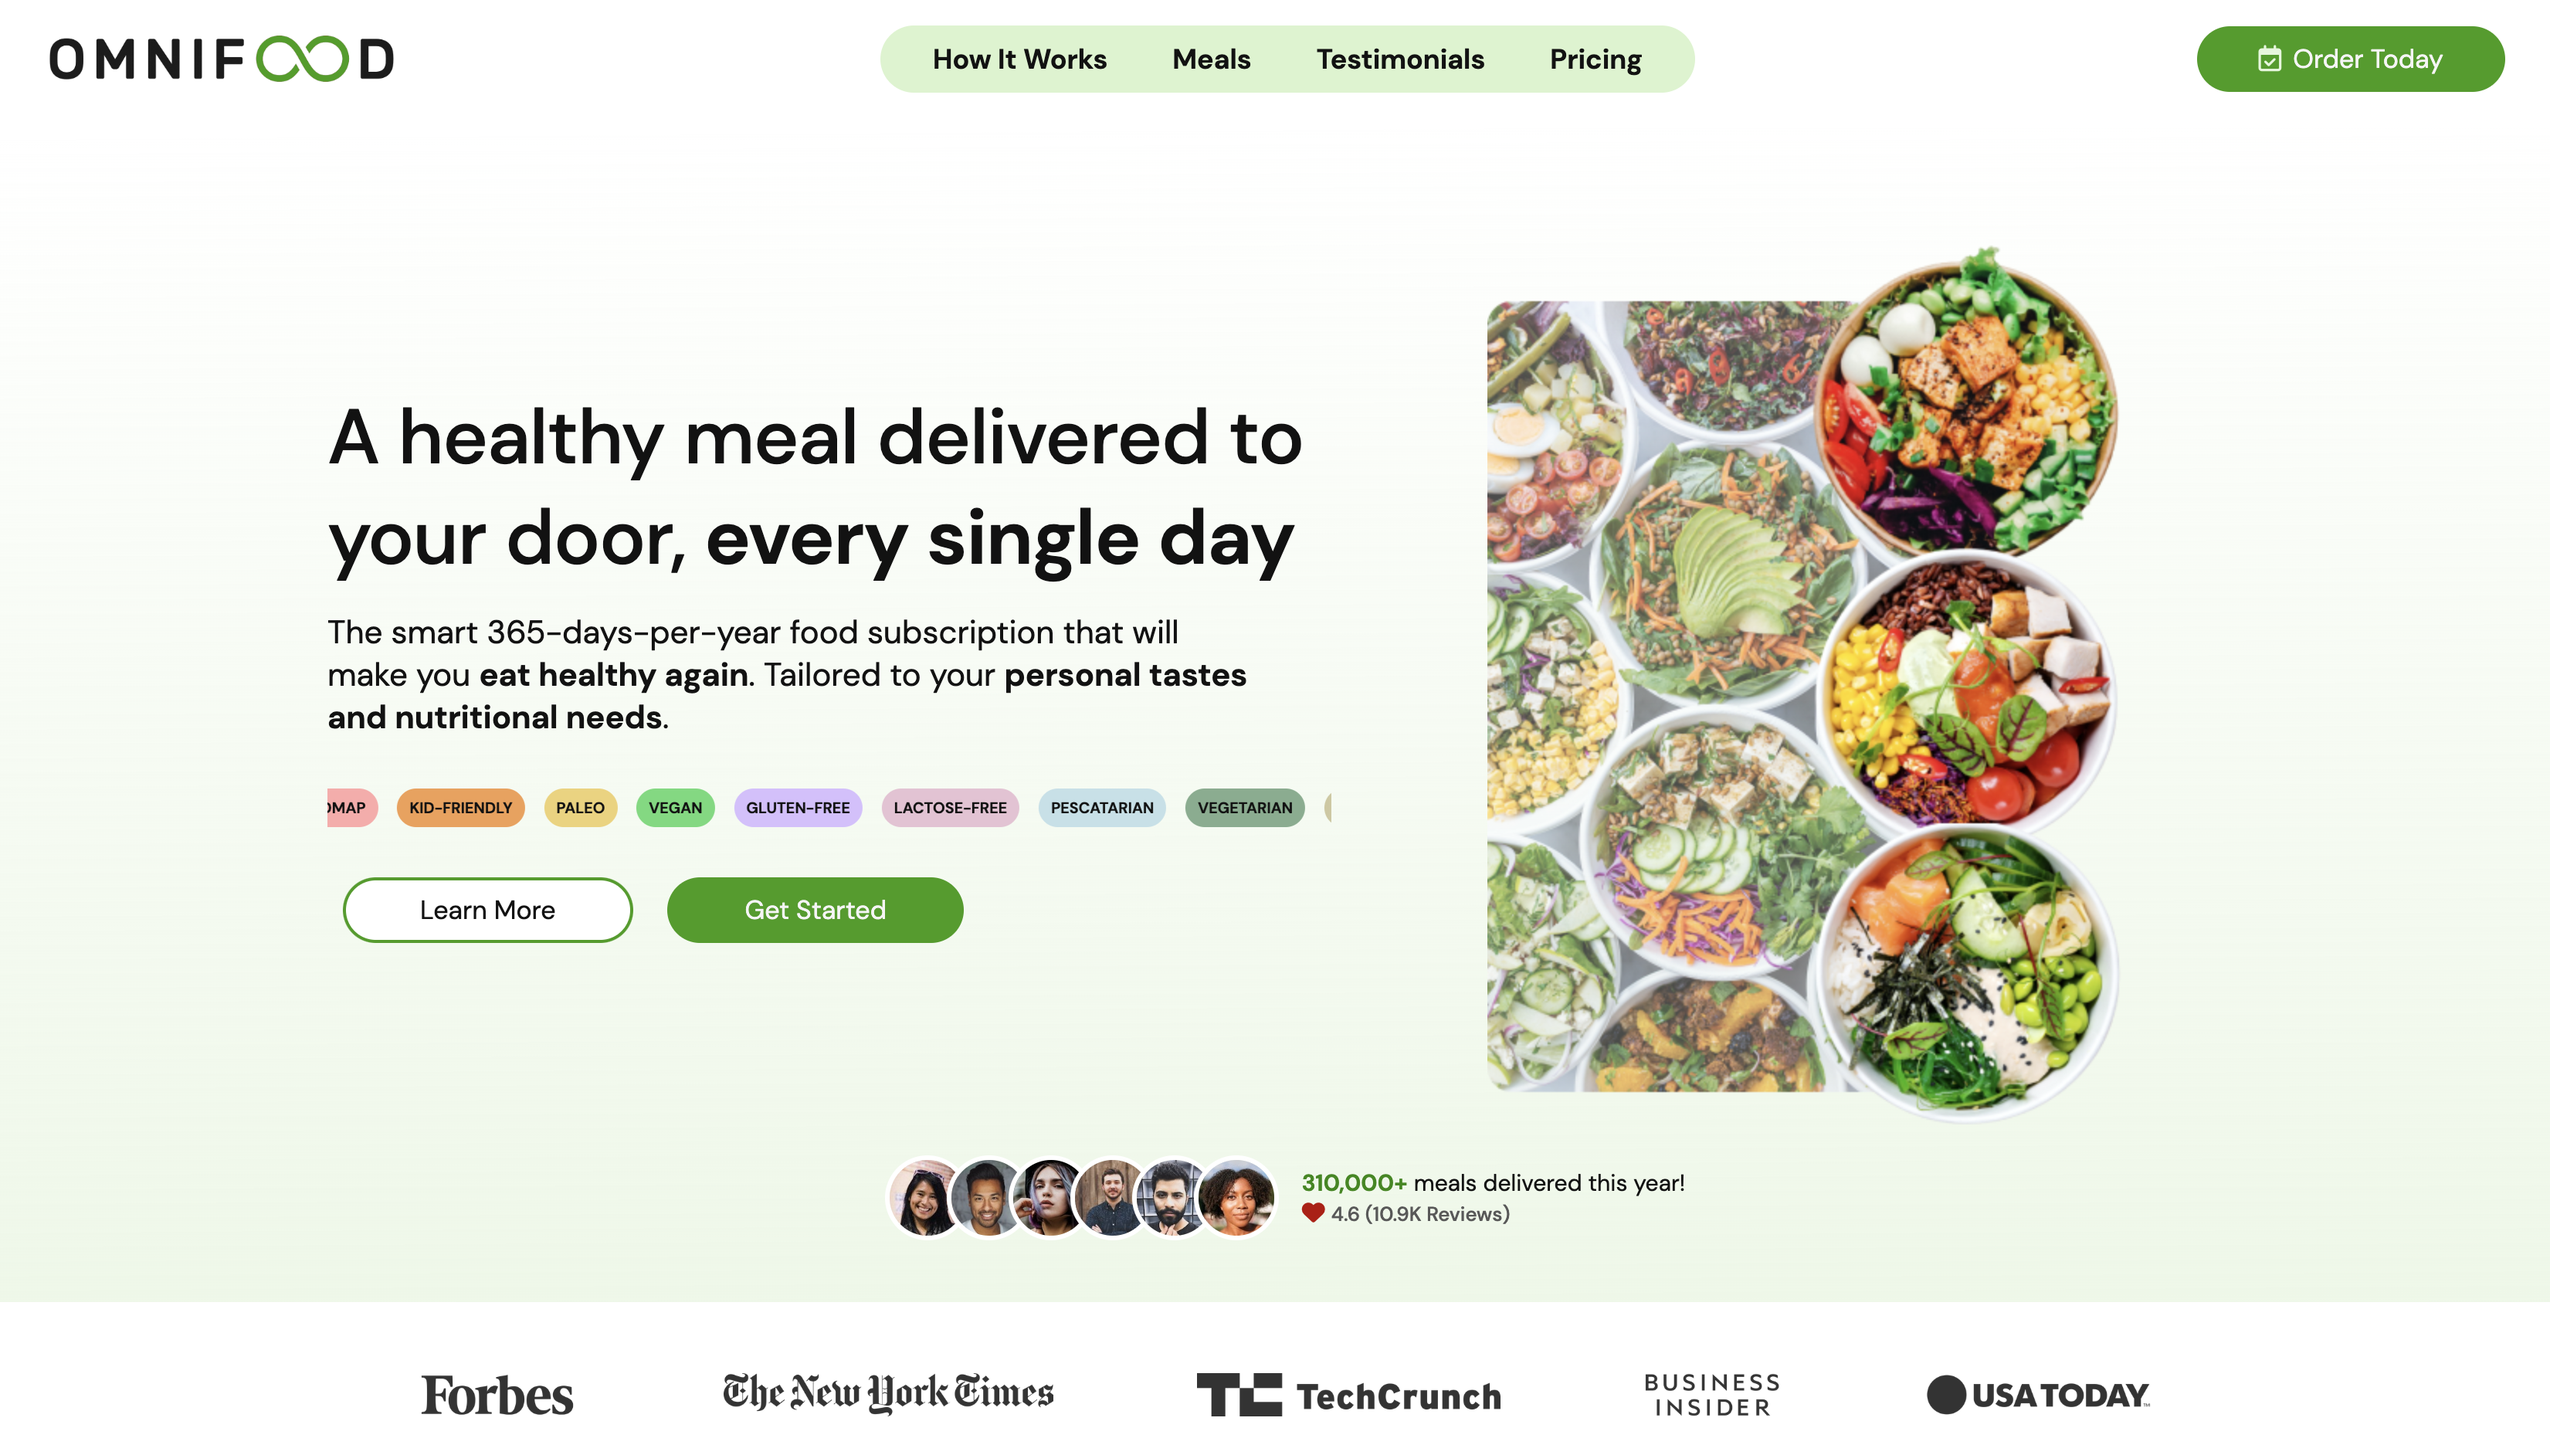
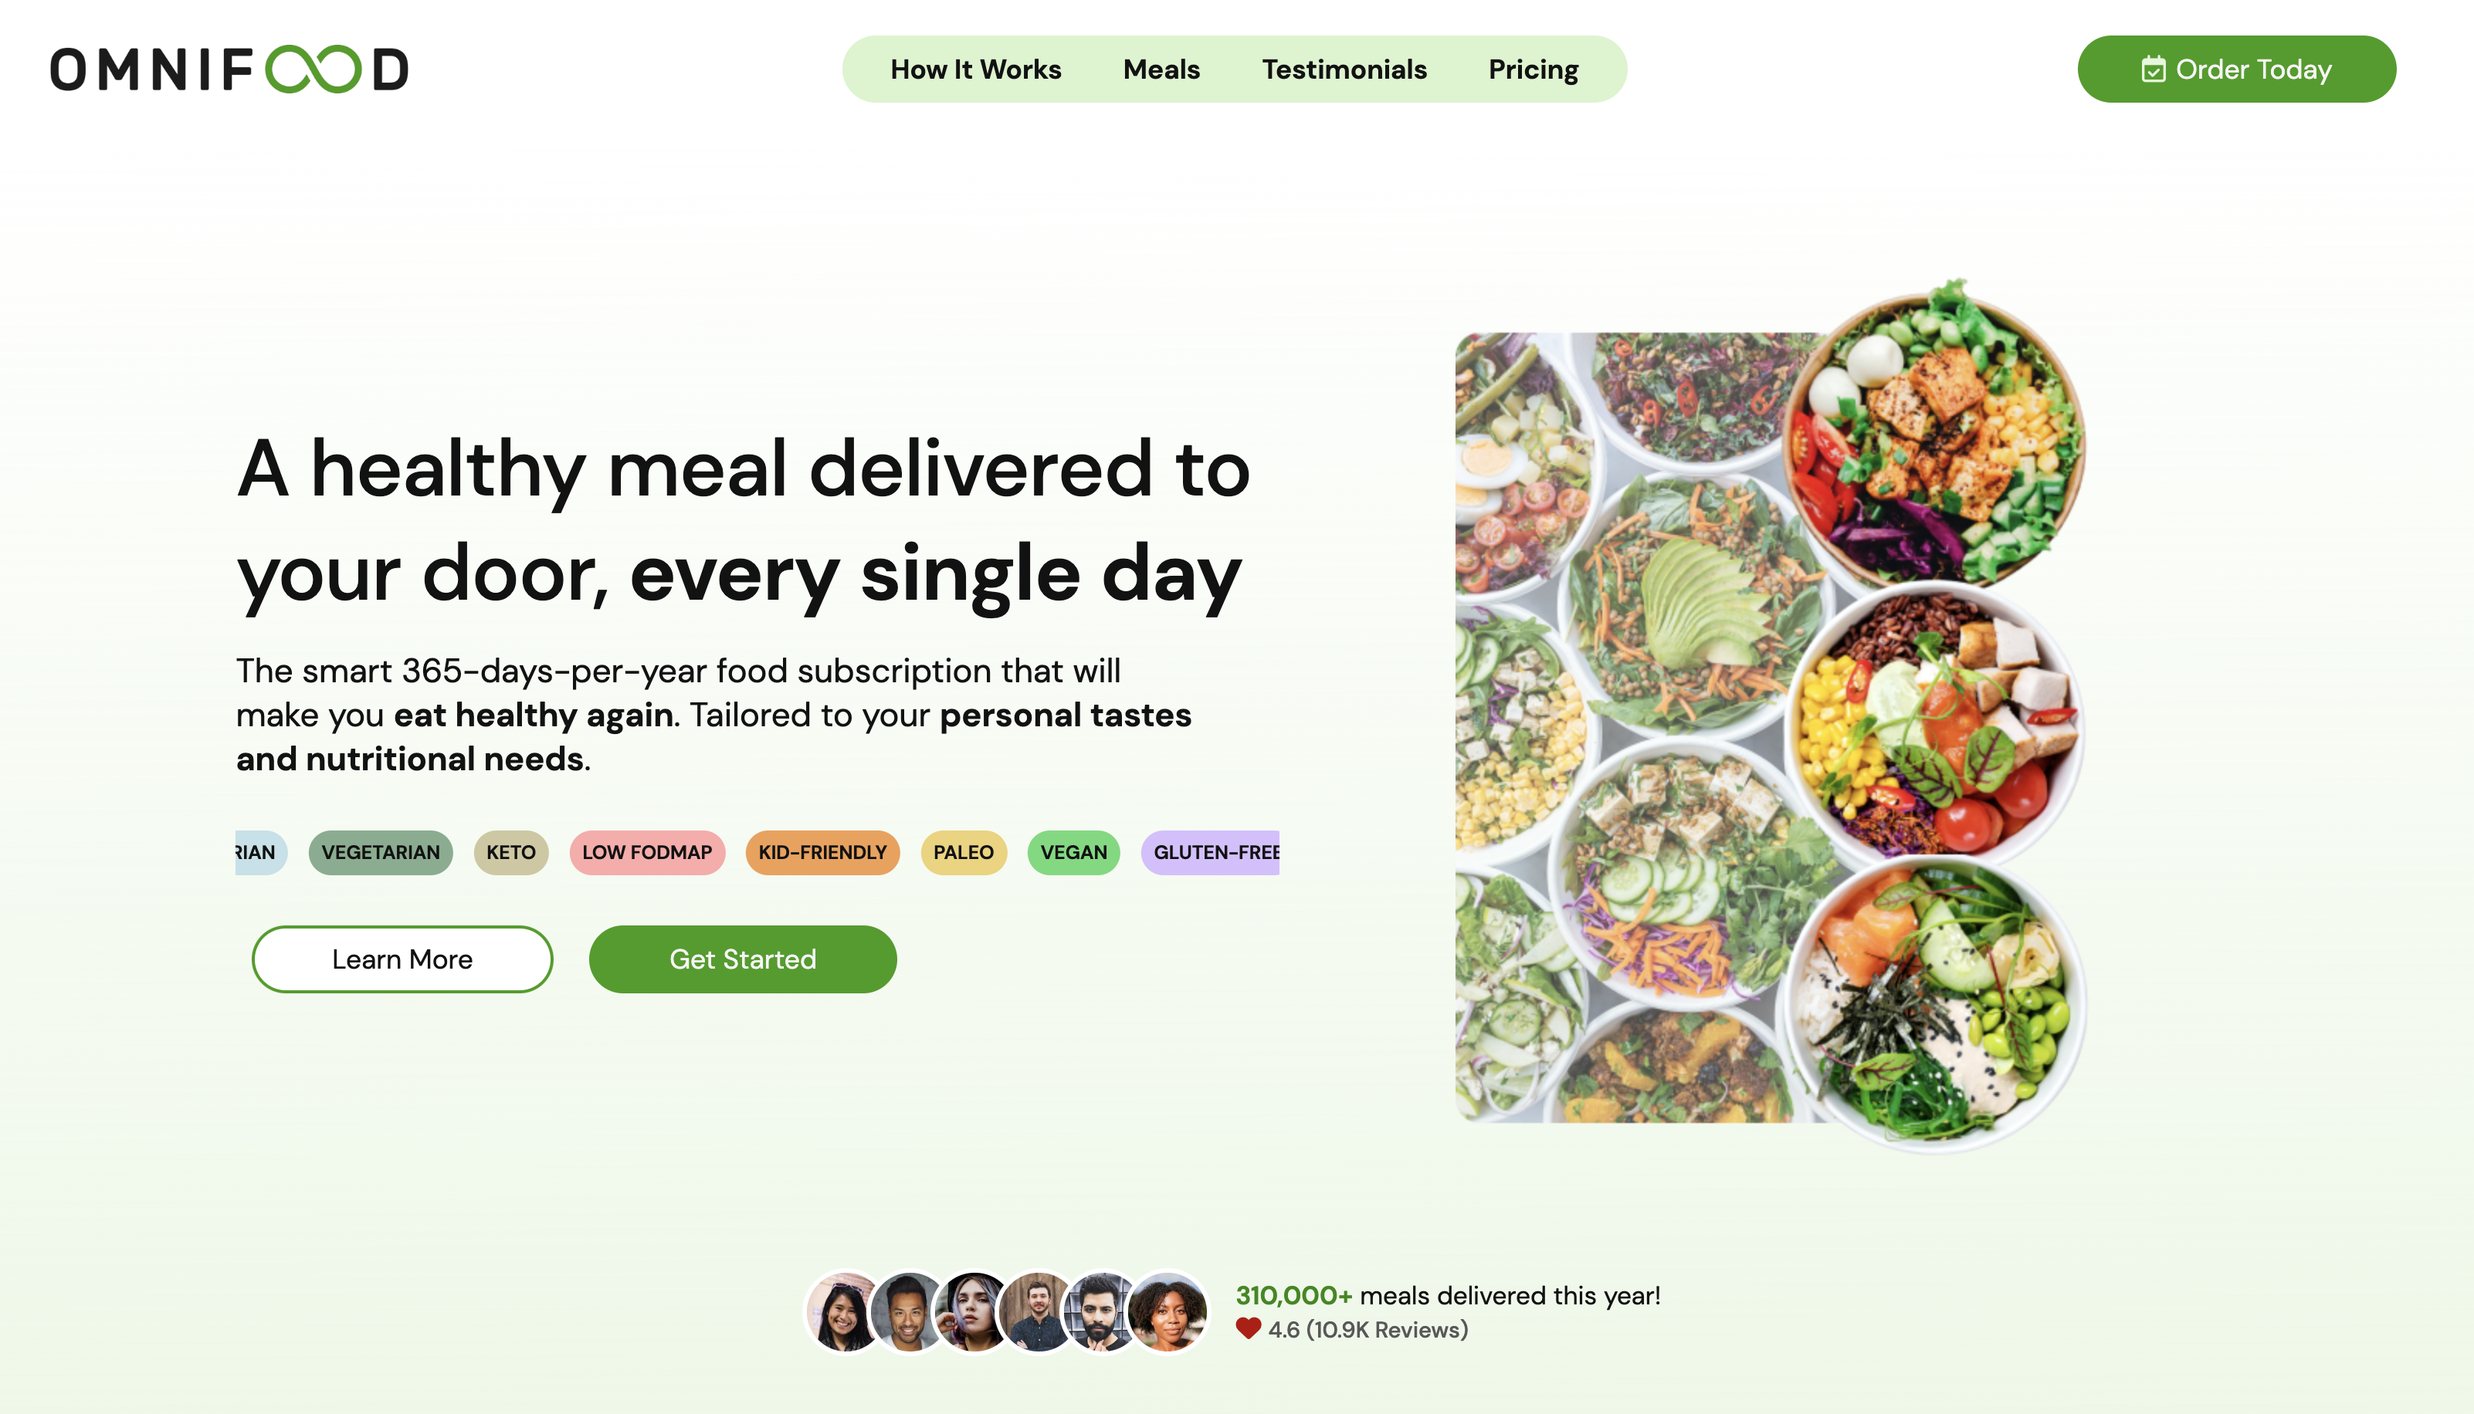
Fix Spacing in Hero

diff --git a/styles.css b/styles.css
@@ -144,7 +144,6 @@ small {
 	max-width: 130rem;
 	margin: 0 auto;
 	align-items: center;
-	gap: 6rem 0;
 	justify-content: center;
 }
 
@@ -303,7 +302,6 @@ small {
 	justify-content: center;
 	padding-top: 2rem;
 	gap: 1.5rem;
-	margin-top: 2rem;
 }
 
 .customer-img-wrapper {
